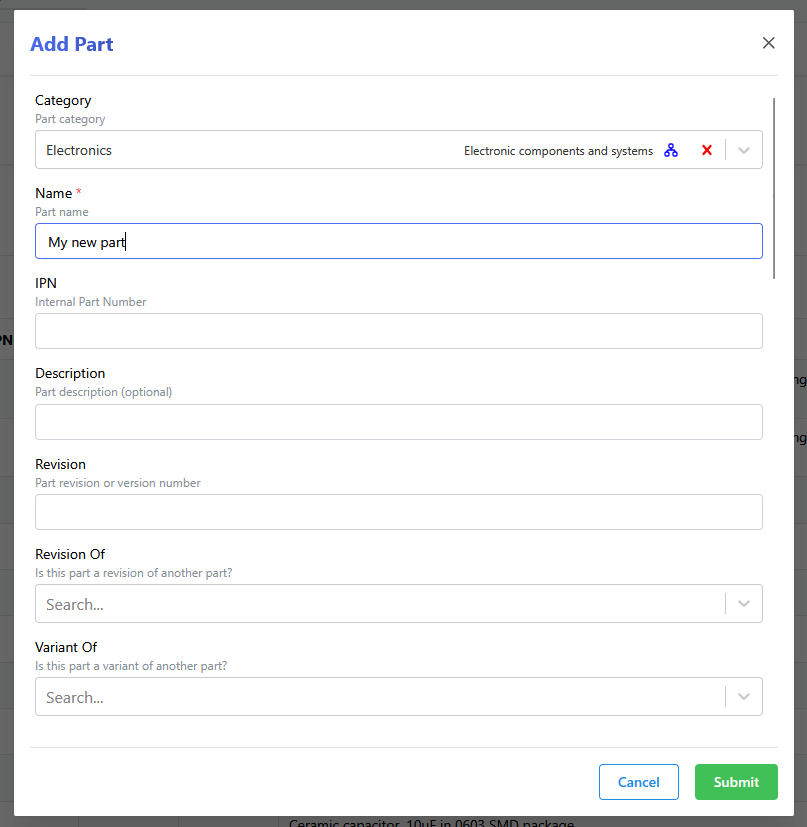
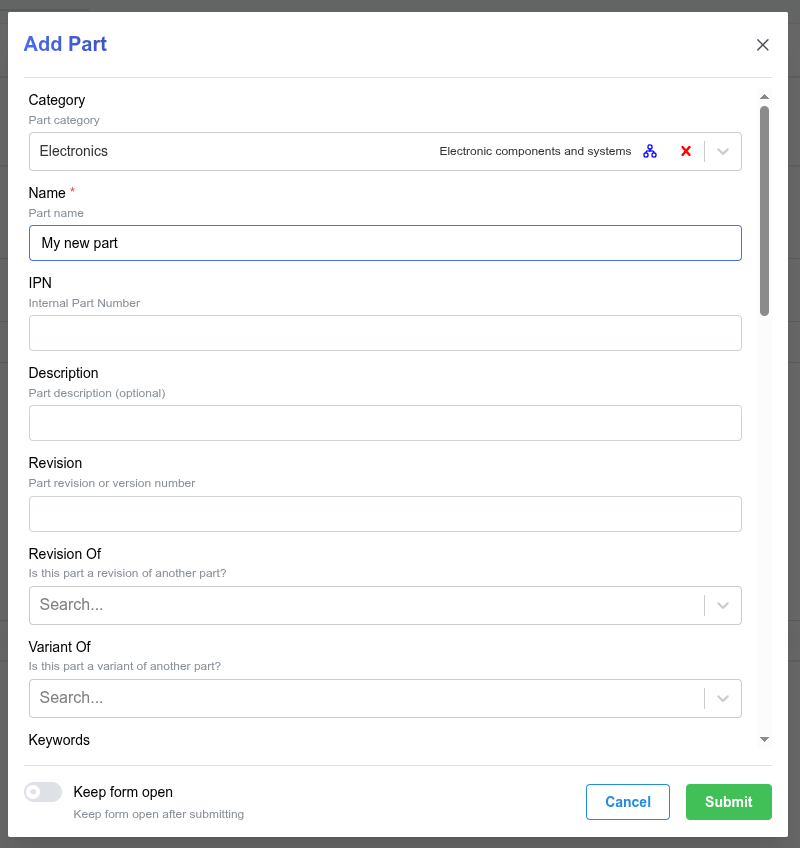
Added keep open boolean field to Stock Location modal form (#11074)
* Added keep open boolean field to Stock Location modal form

* Rewrite keep form open field feature to avoid calling methods in form field definitions

* Rewrite keep form open feature as common form property

* Removed unused artefact from previous implementation

* keepOpenOption removed as default option for all create forms. Instead it's enabled on selected forms.

* keepOpenOption field speed improvement

- using useRef instead of useState
- keepOpenSwitch moved to own component

* Added keep form open feature to changelog

* Updated documentation: keep form open feature added to concepts/user_interface docs

* Added test case for "keep form open" feature

* Changed switch selector in keep form open feature test

---------

diff --git a/src/frontend/src/components/forms/ApiForm.tsx b/src/frontend/src/components/forms/ApiForm.tsx
@@ -12,7 +12,7 @@ import {
 import { useId } from '@mantine/hooks';
 import { notifications } from '@mantine/notifications';
 import { useQuery, useQueryClient } from '@tanstack/react-query';
-import { useCallback, useEffect, useMemo, useState } from 'react';
+import { useCallback, useEffect, useMemo, useRef, useState } from 'react';
 import {
   type FieldValues,
   FormProvider,
@@ -42,6 +42,7 @@ import {
   showTimeoutNotification
 } from '../../functions/notifications';
 import { Boundary } from '../Boundary';
+import { KeepFormOpenSwitch } from './KeepFormOpenSwitch';
 import { ApiFormField } from './fields/ApiFormField';
 
 export function OptionsApiForm({
@@ -169,6 +170,12 @@ export function ApiForm({
 }>) {
   const api = useApi();
   const queryClient = useQueryClient();
+  const keepOpenRef = useRef(false);
+
+  const onKeepOpenChange = (v: boolean) => {
+    keepOpenRef.current = v;
+    props.onKeepOpenChange?.(v);
+  };
 
   // Accessor for the navigation function (which is used to redirect the user)
   let navigate: NavigateFunction | null = null;
@@ -459,9 +466,14 @@ export function ApiForm({
               props.onFormSuccess(response.data, form);
             }
 
-            if (props.follow && props.modelType && response.data?.pk) {
+            if (
+              props.follow &&
+              props.modelType &&
+              response.data?.pk &&
+              !keepOpenRef.current
+            ) {
               // If we want to automatically follow the returned data
-              if (!!navigate) {
+              if (!!navigate && !keepOpenRef.current) {
                 navigate(getDetailUrl(props.modelType, response.data?.pk));
               }
             } else if (props.table) {
@@ -588,7 +600,6 @@ export function ApiForm({
       </Paper>
     );
   }
-
   return (
     <Stack>
       <Boundary label={`ApiForm-${id}`}>
@@ -673,7 +684,12 @@ export function ApiForm({
 
         {/* Footer with Action Buttons */}
         <Divider />
-        <div>
+        <Group justify='space-between'>
+          <Group justify='left'>
+            {props.keepOpenOption && (
+              <KeepFormOpenSwitch onChange={onKeepOpenChange} />
+            )}
+          </Group>
           <Group justify='right'>
             {props.actions?.map((action, i) => (
               <Button
@@ -696,7 +712,7 @@ export function ApiForm({
               {props.submitText ?? t`Submit`}
             </Button>
           </Group>
-        </div>
+        </Group>
       </Boundary>
     </Stack>
   );

diff --git a/src/frontend/tests/pui_forms.spec.ts b/src/frontend/tests/pui_forms.spec.ts
@@ -1,5 +1,5 @@
 /** Unit tests for form validation, rendering, etc */
-import test from 'playwright/test';
+import { expect, test } from 'playwright/test';
 import { stevenuser } from './defaults';
 import { navigate } from './helpers';
 import { doCachedLogin } from './login';
@@ -133,4 +133,38 @@ test('Forms - Supplier Validation', async ({ browser }) => {
   // Is prevented, due to uniqueness requirements
   await page.getByText('Form Error').waitFor();
   await page.getByRole('button', { name: 'Cancel' }).click();
+});
+
+test('Forms - Keep form open option', async ({ browser }) => {
+  const page = await doCachedLogin(browser, {
+    user: stevenuser,
+    url: 'stock/location/index/sublocations'
+  });
+  await page.waitForURL('**/stock/location/index/**');
+
+  await page.getByLabel('action-button-add-stock-location').click();
+
+  // Generate unique location name
+  const locationName = `New Sublocation ${new Date().getTime()}`;
+
+  await page.getByLabel('text-field-name', { exact: true }).fill(locationName);
+
+  // Check keep form open switch and submit
+  await page.getByRole('switch', { name: 'Keep form open' }).click();
+  await page.getByRole('button', { name: 'Submit' }).click();
+
+  // Location should be created, form should remain opened
+  await page.getByText('Item Created').waitFor();
+  await expect(page.getByRole('dialog')).toBeVisible();
+
+  // Create another location and uncheck this option
+  await page
+    .getByLabel('text-field-name', { exact: true })
+    .fill(`Another ${locationName}`);
+  await page.getByRole('switch', { name: 'Keep form open' }).click();
+  await page.getByRole('button', { name: 'Submit' }).click();
+
+  // Location should be created, and the form (modal) should disappear
+  await page.getByText('Item Created').waitFor();
+  await expect(page.getByRole('dialog')).toBeHidden();
 });

diff --git a/src/frontend/src/hooks/UseForm.tsx b/src/frontend/src/hooks/UseForm.tsx
@@ -24,9 +24,15 @@ export function useApiFormModal(props: ApiFormModalProps) {
     return props.modalId ?? id;
   }, [props.modalId, id]);
 
+  const keepOpenRef = useRef(false);
+  const setKeepOpen = (v: boolean) => {
+    keepOpenRef.current = v;
+  };
+
   const formProps = useMemo<ApiFormModalProps>(
     () => ({
       ...props,
+      onKeepOpenChange: setKeepOpen,
       actions: [
         ...(props.actions || []),
         {
@@ -38,7 +44,7 @@ export function useApiFormModal(props: ApiFormModalProps) {
         }
       ],
       onFormSuccess: (data, form) => {
-        if (props.checkClose?.(data, form) ?? true) {
+        if (!keepOpenRef.current && (props.checkClose?.(data, form) ?? true)) {
           modalClose.current();
         }
         props.onFormSuccess?.(data, form);

diff --git a/src/frontend/src/components/forms/KeepFormOpenSwitch.tsx b/src/frontend/src/components/forms/KeepFormOpenSwitch.tsx
@@ -1,0 +1,23 @@
+import { Switch } from '@mantine/core';
+import { useEffect, useState } from 'react';
+
+export function KeepFormOpenSwitch({
+  onChange
+}: { onChange?: (v: boolean) => void }) {
+  const [keepOpen, setKeepOpen] = useState(false);
+
+  useEffect(() => {
+    onChange?.(keepOpen);
+  }, [keepOpen]);
+
+  return (
+    <Switch
+      checked={keepOpen}
+      radius='lg'
+      size='sm'
+      label='Keep form open'
+      description='Keep form open after submitting'
+      onChange={(e) => setKeepOpen(e.currentTarget.checked)}
+    />
+  );
+}

diff --git a/src/frontend/src/tables/stock/StockItemTable.tsx b/src/frontend/src/tables/stock/StockItemTable.tsx
@@ -417,7 +417,8 @@ export function StockItemTable({
       // Navigate to the first result
       navigate(getDetailUrl(ModelType.stockitem, response[0].pk));
     },
-    successMessage: t`Stock item created`
+    successMessage: t`Stock item created`,
+    keepOpenOption: true
   });
 
   const [partsToOrder, setPartsToOrder] = useState<any[]>([]);

diff --git a/src/frontend/src/tables/purchasing/SupplierPartTable.tsx b/src/frontend/src/tables/purchasing/SupplierPartTable.tsx
@@ -210,7 +210,8 @@ export function SupplierPartTable({
     onFormSuccess: (response: any) => {
       table.refreshTable();
     },
-    successMessage: t`Supplier part created`
+    successMessage: t`Supplier part created`,
+    keepOpenOption: true
   });
 
   const supplierPlugins = usePluginsWithMixin('supplier');

diff --git a/src/frontend/src/tables/stock/StockLocationTable.tsx b/src/frontend/src/tables/stock/StockLocationTable.tsx
@@ -110,7 +110,8 @@ export function StockLocationTable({ parentId }: Readonly<{ parentId?: any }>) {
     },
     follow: true,
     modelType: ModelType.stocklocation,
-    table: table
+    table: table,
+    keepOpenOption: true
   });
 
   const [selectedLocation, setSelectedLocation] = useState<number>(-1);

diff --git a/src/frontend/src/tables/part/PartCategoryTable.tsx b/src/frontend/src/tables/part/PartCategoryTable.tsx
@@ -109,7 +109,8 @@ export function PartCategoryTable({ parentId }: Readonly<{ parentId?: any }>) {
     },
     follow: true,
     modelType: ModelType.partcategory,
-    table: table
+    table: table,
+    keepOpenOption: true
   });
 
   const [selectedCategory, setSelectedCategory] = useState<number>(-1);

diff --git a/src/frontend/src/tables/company/CompanyTable.tsx b/src/frontend/src/tables/company/CompanyTable.tsx
@@ -80,7 +80,8 @@ export function CompanyTable({
     fields: companyFields(),
     initialData: params,
     follow: true,
-    modelType: ModelType.company
+    modelType: ModelType.company,
+    keepOpenOption: true
   });
 
   const [selectedCompany, setSelectedCompany] = useState<number>(0);

diff --git a/src/frontend/src/tables/part/PartTable.tsx b/src/frontend/src/tables/part/PartTable.tsx
@@ -407,7 +407,8 @@ export function PartListTable({
     fields: newPartFields,
     initialData: initialPartData,
     follow: true,
-    modelType: ModelType.part
+    modelType: ModelType.part,
+    keepOpenOption: true
   });
 
   const [selectedPart, setSelectedPart] = useState<any>({});

diff --git a/src/frontend/src/tables/purchasing/PurchaseOrderTable.tsx b/src/frontend/src/tables/purchasing/PurchaseOrderTable.tsx
@@ -175,7 +175,8 @@ export function PurchaseOrderTable({
       supplier: supplierId
     },
     follow: true,
-    modelType: ModelType.purchaseorder
+    modelType: ModelType.purchaseorder,
+    keepOpenOption: true
   });
 
   const tableActions = useMemo(() => {

diff --git a/src/frontend/src/tables/sales/ReturnOrderTable.tsx b/src/frontend/src/tables/sales/ReturnOrderTable.tsx
@@ -179,7 +179,8 @@ export function ReturnOrderTable({
       customer: customerId
     },
     follow: true,
-    modelType: ModelType.returnorder
+    modelType: ModelType.returnorder,
+    keepOpenOption: true
   });
 
   const tableActions = useMemo(() => {
